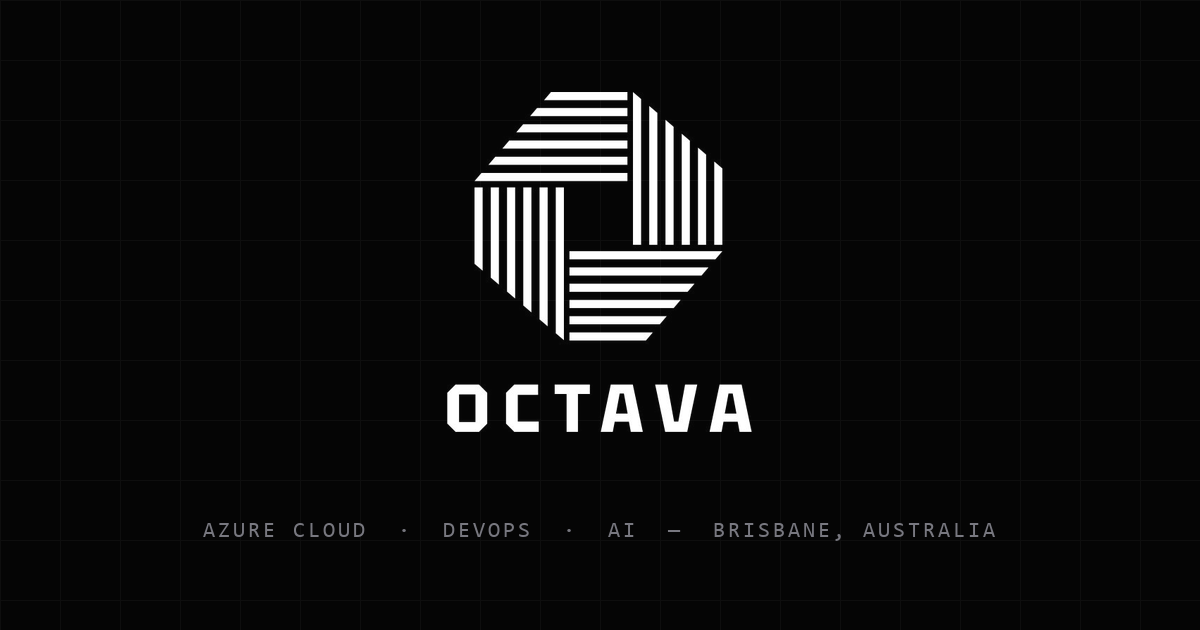
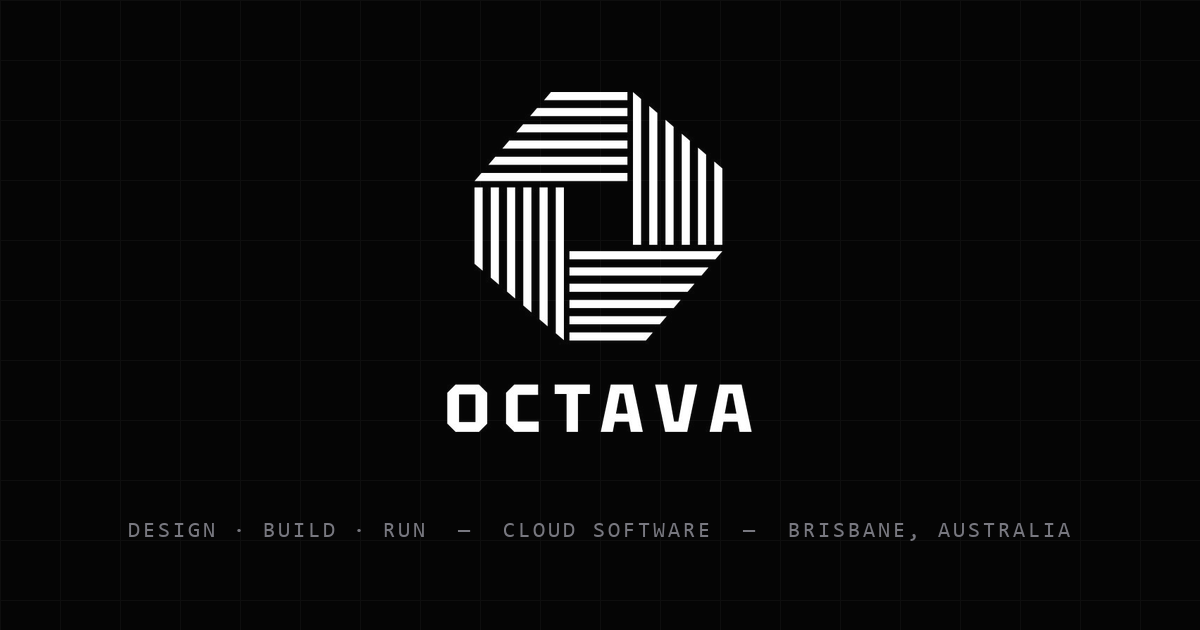
Reposition Octava as a cloud product engineering company
- Hero: "Design. Build. Run." headline, product-engineering badge,
  subline naming MeridianLogix and CertifyMe, CTA to products
- Services: new flagship Product Engineering card; Azure Cloud
  Platforms, DevOps & Automation, AI & Data; 2x2 grid
- Capabilities: product design/delivery, web-mobile-SaaS, AI product
  engineering added; "100% Azure focused" stat -> "02 Products in
  production"
- Contact: "Product Build - new app" option in form and API
- About: engineering-company copy, Product Engineering chip,
  Design/Build/Run caption
- Footer: new descriptor + Products nav link
- Metadata: new titles/descriptions/keywords; OG image tagline
  now Design/Build/Run

Changed region(s): [[0.2775, 0.8143, 0.7092, 0.8746], [0.7708, 0.8143, 0.8942, 0.8746], [0.0925, 0.8143, 0.2467, 0.8746]]

diff --git a/src/components/sections/ServicesSection.tsx b/src/components/sections/ServicesSection.tsx
@@ -8,10 +8,24 @@ import { SectionLabel } from '@/components/ui/SectionLabel'
 const services = [
   {
     number: '01',
-    name: 'Azure Cloud Engineering',
+    name: 'Product Engineering',
     description:
-      'Architecture, migration, and optimisation of enterprise Azure environments. Landing zones, governance, and cloud-native infrastructure designed for scale and security.',
-    tags: ['Landing Zones', 'Governance', 'FinOps', 'Security'],
+      'End-to-end product builds — discovery, design, engineering, launch, and operations. Web, mobile, and AI products taken from idea to production, the way we built MeridianLogix and CertifyMe.',
+    tags: ['Web & Mobile', 'SaaS Platforms', 'MVP to Scale', 'Launch & Operate'],
+    icon: (
+      <svg viewBox="0 0 48 48" fill="none" stroke="currentColor" strokeWidth="1" className="w-full h-full">
+        <path d="M24 5l16 8-16 8-16-8 16-8z" />
+        <path d="M8 23l16 8 16-8" />
+        <path d="M8 33l16 8 16-8" />
+      </svg>
+    ),
+  },
+  {
+    number: '02',
+    name: 'Azure Cloud Platforms',
+    description:
+      'Architecture, migration, and optimisation of enterprise Azure environments. Landing zones, governance, sovereignty, and cloud-native infrastructure designed for scale and security.',
+    tags: ['Landing Zones', 'Governance', 'Security', 'FinOps'],
     icon: (
       <svg viewBox="0 0 48 48" fill="none" stroke="currentColor" strokeWidth="1" className="w-full h-full">
         <rect x="8" y="28" width="32" height="14" />
@@ -22,8 +36,8 @@ const services = [
     ),
   },
   {
-    number: '02',
-    name: 'DevOps Automation',
+    number: '03',
+    name: 'DevOps & Automation',
     description:
       'CI/CD pipelines, infrastructure as code, and platform engineering. Transform manual processes into automated, reliable, auditable delivery systems.',
     tags: ['Terraform', 'CI/CD Pipelines', 'Bicep', 'GitHub Actions'],
@@ -37,11 +51,11 @@ const services = [
     ),
   },
   {
-    number: '03',
-    name: 'AI Automation',
+    number: '04',
+    name: 'AI & Data',
     description:
-      'Intelligent workflow automation powered by Azure AI services. From document processing to agentic systems that fundamentally transform business operations.',
-    tags: ['Azure OpenAI', 'Copilot', 'AI Agents', 'ML Ops'],
+      'Intelligent workflows and AI features powered by Azure AI — document processing, retrieval, and agentic systems, built into your operations or into the products we ship.',
+    tags: ['Azure OpenAI', 'AI Agents', 'Document Intelligence', 'ML Ops'],
     icon: (
       <svg viewBox="0 0 48 48" fill="none" stroke="currentColor" strokeWidth="1" className="w-full h-full">
         <path d="M12 36l8-16 6 8 4-6 6 14" />
@@ -69,7 +83,7 @@ function ServiceCard({ service, index }: { service: typeof services[0]; index: n
   return (
     <motion.div
       ref={cardRef}
-      className="relative bg-[#050505] border-r border-white/[0.06] last:border-r-0 p-10 md:p-12 overflow-hidden group"
+      className="relative bg-[#050505] border-b border-r border-white/[0.06] p-10 md:p-12 overflow-hidden group"
       style={{ perspective: 800 }}
       onMouseMove={handleMouseMove}
       onMouseEnter={() => setIsHovered(true)}
@@ -167,7 +181,7 @@ export function ServicesSection() {
         </motion.h2>
 
         {/* Grid with separator lines */}
-        <div className="grid grid-cols-1 md:grid-cols-3 border border-white/[0.06]">
+        <div className="grid grid-cols-1 md:grid-cols-2 border-t border-l border-white/[0.06]">
           {services.map((service, i) => (
             <ServiceCard key={service.number} service={service} index={i} />
           ))}

diff --git a/src/app/layout.tsx b/src/app/layout.tsx
@@ -20,13 +20,18 @@ const dmMono = DM_Mono({
 
 export const metadata: Metadata = {
   title: {
-    default: 'Octava Cloud — Azure Cloud, DevOps & AI',
+    default: 'Octava — Cloud Product Engineering, Azure & AI',
     template: '%s | Octava Cloud',
   },
   description:
-    'Premium Azure cloud engineering and AI automation solutions for modern businesses and government. Brisbane-based cloud consultancy specialising in Azure, DevOps automation and AI.',
+    'Octava designs, builds and runs cloud software — product engineering, sovereign Azure platforms, DevOps automation and AI for business and government. Built in Brisbane, deployed anywhere.',
   keywords: [
     'Azure cloud engineering',
+    'cloud product engineering',
+    'app development Brisbane',
+    'software product development',
+    'SaaS development Australia',
+    'AI application development',
     'DevOps automation',
     'AI automation',
     'cloud consulting',
@@ -47,9 +52,9 @@ export const metadata: Metadata = {
     locale: 'en_AU',
     url: 'https://octava.cloud',
     siteName: 'Octava Consulting',
-    title: 'Octava Consulting — Azure Cloud, DevOps & AI',
+    title: 'Octava — Cloud Product Engineering, Azure & AI',
     description:
-      'Premium Azure cloud engineering and AI automation solutions for modern businesses and government. Built in Brisbane, deployed anywhere.',
+      'We design, build and run cloud software — products, platforms, and AI. Built in Brisbane, deployed anywhere.',
     images: [
       {
         url: '/images/og-image.png',
@@ -61,9 +66,9 @@ export const metadata: Metadata = {
   },
   twitter: {
     card: 'summary_large_image',
-    title: 'Octava Consulting — Azure Cloud, DevOps & AI',
+    title: 'Octava — Cloud Product Engineering, Azure & AI',
     description:
-      'Premium Azure cloud engineering and AI automation solutions. Built in Brisbane, deployed anywhere.',
+      'We design, build and run cloud software. Built in Brisbane, deployed anywhere.',
     images: ['/images/og-image.png'],
   },
   robots: {

diff --git a/src/components/sections/FounderSection.tsx b/src/components/sections/FounderSection.tsx
@@ -84,7 +84,7 @@ export function FounderSection() {
             <div className="flex items-center gap-3 mt-6">
               <div className="w-10 h-px bg-white/15" />
               <span className="font-mono text-[11px] tracking-[1px] text-white/25 uppercase">
-                Octava Consulting
+                Octava — Design · Build · Run
               </span>
             </div>
           </motion.div>
@@ -102,13 +102,14 @@ export function FounderSection() {
             </h2>
 
             <p className="text-[16px] text-white/42 leading-[1.8] font-normal mb-6">
-              Octava Consulting is led by a Brisbane-based Azure cloud engineer helping
-              organisations modernise their cloud infrastructure, automation, and AI capabilities.
+              Octava is a Brisbane-based engineering company that ships its own products —
+              MeridianLogix and CertifyMe — and builds cloud platforms, automation, and AI
+              capabilities for client teams.
             </p>
 
             <p className="text-[16px] text-white/38 leading-[1.8] font-normal mb-10">
               We work with government agencies, enterprise teams, and forward-thinking SMBs who
-              need senior technical expertise without the overhead of a large consulting firm.
+              need senior product and platform engineering without the overhead of a large consulting firm.
             </p>
 
             {/* Location pill */}
@@ -129,7 +130,7 @@ export function FounderSection() {
                 Focus Areas
               </p>
               <div className="flex flex-wrap gap-3">
-                {['Microsoft Azure', 'Government Sector', 'Enterprise AI', 'Australia-wide'].map(cert => (
+                {['Product Engineering', 'Microsoft Azure', 'Government Sector', 'Enterprise AI', 'Australia-wide'].map(cert => (
                   <span
                     key={cert}
                     className="border border-white/[0.08] font-mono text-[11px] tracking-[0.5px] text-white/30 px-3 py-1.5"

diff --git a/src/components/sections/HeroSection.tsx b/src/components/sections/HeroSection.tsx
@@ -90,7 +90,7 @@ export function HeroSection() {
     }
   }, [])
 
-  const headlineLines = ['Cloud.', 'DevOps.', 'AI.']
+  const headlineLines = ['Design.', 'Build.', 'Run.']
 
   return (
     <section
@@ -180,7 +180,7 @@ export function HeroSection() {
             animate={{ opacity: [1, 0.15, 1] }}
             transition={{ duration: 2, repeat: Infinity, ease: 'easeInOut' }}
           />
-          Azure Cloud Consulting — Australia-wide, from Brisbane
+          Cloud Product Engineering — Australia-wide, from Brisbane
         </motion.div>
 
         {/* Headline */}
@@ -210,7 +210,7 @@ export function HeroSection() {
           animate={{ opacity: 1, y: 0 }}
           transition={{ duration: 0.8, delay: 0.8, ease: [0.16, 1, 0.3, 1] }}
         >
-          Premium Azure cloud engineering and AI automation solutions for modern businesses and government.
+          We design, build and run cloud software — from sovereign Azure platforms for government to AI products like MeridianLogix and CertifyMe.
         </motion.p>
 
         {/* CTAs */}
@@ -227,10 +227,10 @@ export function HeroSection() {
             Book a Consultation
           </Link>
           <Link
-            href="/#services"
+            href="/#products"
             className="border border-white/20 text-white px-8 py-4 text-[14px] font-semibold tracking-[0.3px] hover:border-white/45 hover:bg-white/[0.03] transition-all duration-300 inline-block"
           >
-            View Services
+            See what we've built
           </Link>
         </motion.div>
 

diff --git a/src/components/layout/Footer.tsx b/src/components/layout/Footer.tsx
@@ -5,6 +5,7 @@ const footerLinks = [
   { href: '/#services', label: 'Services' },
   { href: '/#capabilities', label: 'Capabilities' },
   { href: '/#projects', label: 'Projects' },
+  { href: '/#products', label: 'Products' },
   { href: '/#about', label: 'About' },
   { href: '/#contact', label: 'Contact' },
 ]
@@ -30,7 +31,7 @@ export function Footer() {
               </span>
             </div>
             <p className="text-white/35 text-[13px] leading-relaxed font-normal">
-              Premium Azure cloud engineering and AI automation. Built in Brisbane, deployed globally.
+              We design, build and run cloud software — products, platforms, and AI. Built in Brisbane, deployed globally.
             </p>
           </div>
 

diff --git a/src/components/sections/CapabilitiesSection.tsx b/src/components/sections/CapabilitiesSection.tsx
@@ -5,18 +5,20 @@ import { motion, useInView } from 'framer-motion'
 import { SectionLabel } from '@/components/ui/SectionLabel'
 
 const capabilities = [
+  'Product Design & Delivery',
+  'Web, Mobile & SaaS Platforms',
+  'AI Product Engineering',
   'Azure Architecture & Migration',
   'Cloud Security & Compliance',
   'Infrastructure as Code',
   'Kubernetes & Container Platforms',
-  'AI Integration & Automation',
   'Government Cloud Frameworks',
   'FinOps & Cost Optimisation',
   '24/7 Monitoring & Observability',
 ]
 
 const stats = [
-  { value: '100%', label: 'Azure focused' },
+  { value: '02', label: 'Products in production' },
   { value: 'AU', label: 'Sovereign hosting' },
   { value: '24h', label: 'Response time' },
 ]

diff --git a/src/components/sections/ContactSection.tsx b/src/components/sections/ContactSection.tsx
@@ -189,6 +189,7 @@ export function ContactSection() {
                     style={{ background: 'rgba(255,255,255,0.03)' }}
                   >
                     <option value="" style={{ background: '#050505' }}>Select a service…</option>
+                    <option value="product" style={{ background: '#050505' }}>Product Build — new app</option>
                     <option value="azure" style={{ background: '#050505' }}>Azure Cloud Engineering</option>
                     <option value="devops" style={{ background: '#050505' }}>DevOps Automation</option>
                     <option value="ai" style={{ background: '#050505' }}>AI Automation</option>

diff --git a/src/app/api/contact/route.ts b/src/app/api/contact/route.ts
@@ -12,6 +12,7 @@ const FROM_EMAIL = process.env.CONTACT_FROM_EMAIL ?? 'Octava Website <onboarding
 
 const EMAIL_RE = /^[^\s@]+@[^\s@]+\.[^\s@]{2,}$/
 const SERVICES: Record<string, string> = {
+  product: 'Product Build — new app',
   azure: 'Azure Cloud Engineering',
   devops: 'DevOps Automation',
   ai: 'AI Automation',
